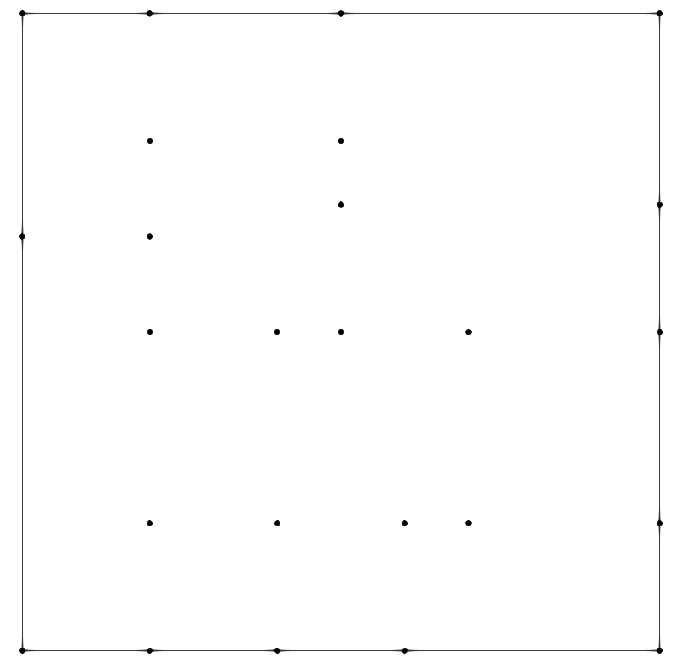
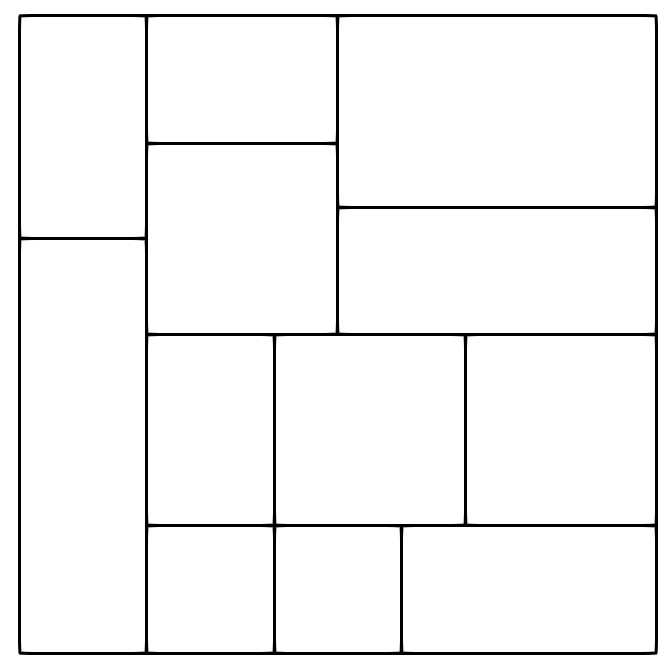
preimage

Changed region(s): [[0.0299, 0.0, 0.9851, 0.997]]

diff --git a/src/tspline.cpp b/src/tspline.cpp
@@ -59,21 +59,6 @@ std::vector<double> tspline::evaluate(double s, double t)
     return P;
 }
 
-void tspline::printParameterSpace()
-{
-    std::string filename("parameter_space.dat");
-    std::ofstream my_file(filename);
-
-    my_file << "variables= " << "\"x\"" << "," << "\"y\"" << "\n";
-	my_file << "zone t= " << "\"1\"" << ",i=" << len << ",j=" << len << "\n";
-
-    for (int i = 0; i < len; i++)
-    {
-		my_file << kVertices[i]._s << " " << kVertices[i]._t << "\n";
-    }
-    my_file.close();
-}
-
 void tspline::printControlPts()
 {
     std::string filename("control_points.dat");
@@ -85,6 +70,51 @@ void tspline::printControlPts()
     for (int i = 0; i < len; i++)
     {
 		my_file << kVertices[i].cPoint[0] << " " << kVertices[i].cPoint[1] << " " << kVertices[i].cPoint[2] << "\n";
+    }
+    my_file.close();
+}
+
+void tspline::printPreImagePaper()
+{
+    std::string filename("pre_image.obj");
+    std::ofstream my_file(filename);
+
+    my_file << "# " << len << "\n";
+
+    int cnt = 0;
+    for (int i = 0; i < len; i++)
+    {
+        if (kVertices[i].top_end)
+        {
+            cnt += 2;
+            my_file << "v " << kVertices[i]._s << " " << kVertices[i]._t << "\n";
+            my_file << "v " << kVertices[i].top_end->_s << " " << kVertices[i].top_end->_t << "\n";
+            my_file << "l " << cnt-1 << " " << cnt << "\n";
+        }
+
+        if (kVertices[i].right_end)
+        {
+            cnt += 2;
+            my_file << "v " << kVertices[i]._s << " " << kVertices[i]._t << "\n";
+            my_file << "v " << kVertices[i].right_end->_s << " " << kVertices[i].right_end->_t << "\n";
+            my_file << "l " << cnt-1 << " " << cnt << "\n";
+        }
+
+        if (kVertices[i].bottom_end)
+        {
+            cnt += 2;
+            my_file << "v " << kVertices[i]._s << " " << kVertices[i]._t << "\n";
+            my_file << "v " << kVertices[i].bottom_end->_s << " " << kVertices[i].bottom_end->_t << "\n";
+            my_file << "l " << cnt-1 << " " << cnt << "\n";
+        }
+
+        if (kVertices[i].left_end)
+        {
+            cnt += 2;
+            my_file << "v " << kVertices[i]._s << " " << kVertices[i]._t << "\n";
+            my_file << "v " << kVertices[i].left_end->_s << " " << kVertices[i].left_end->_t << "\n";
+            my_file << "l " << cnt-1 << " " << cnt << "\n";
+        }
     }
     my_file.close();
 }

diff --git a/run.cpp b/run.cpp
@@ -169,11 +169,11 @@ int main()
   t.kVertices[23].cPoint = {0.5,1.0,1.2};
   t.kVertices[24].cPoint = {1.0,1.0,1.1};
 
-  t.printParameterSpace();
   t.printControlPts();
   t.updateKnotVecs();
+  t.printPreImagePaper();
 
-  std::string filename("test.dat");
+  std::string filename("T-surface.dat");
   std::ofstream my_file(filename);
 
   int count = 120;

diff --git a/include/tspline.h b/include/tspline.h
@@ -17,8 +17,8 @@ public:
     // Member functions
     void updateKnotVecs();
     std::vector<double> evaluate(double, double);
-    void printParameterSpace();
     void printControlPts();
+    void printPreImagePaper();
 
     kVertex* kVertices;
     int deg;
